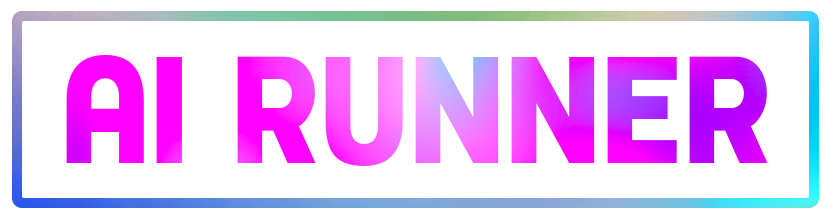
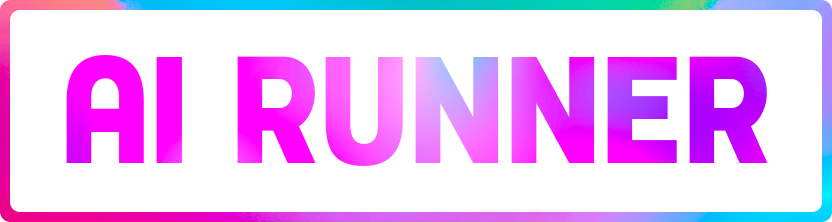
readme updates

Changed region(s): [[0.0, 0.0, 1.0, 1.0]]

diff --git a/README.md b/README.md
@@ -27,9 +27,7 @@
 | - Fast generation (~2s on RTX 2080s)<br>- Docker-based setup & GPU acceleration<br>- Theming (Light/Dark/System)<br>- NSFW toggles<br>- Extension API<br>- Python library & API support |
 
 </div>
-<div style="border: 2px solid white; border-radius: 8px; margin-bottom: 10px; padding: 16px; background-color: #f9f9f9; box-shadow: 0 2px 8px #0002; background: transparent;">
 
-</div>
 <div style="border: 2px solid white; border-radius: 8px; margin-bottom: 10px; padding: 16px; background-color: #f9f9f9; box-shadow: 0 2px 8px #0002; background: transparent;">
 
 ### 🌍 Language Support
@@ -52,6 +50,10 @@
 <img src="https://github.com/user-attachments/assets/392375c8-a7f6-4e6e-8662-511cffc608aa" alt="AI Runner Screenshot" style="max-width: 100%; border-radius: 8px; box-shadow: 0 2px 8px #0002;">
 
 <video src="https://github.com/user-attachments/assets/2d5b41ff-a0cd-4239-945b-d9e7a1bc5644" controls width="100%" style="border-radius: 8px; box-shadow: 0 2px 8px #0002;"></video>
+
+</td>
+</tr>
+</table>
 
 ## 💾 Installation Quick Start
 
@@ -86,12 +88,6 @@ There are several ways to install and use AI Runner. [See the Installation Wiki 
 For more options, including Docker, see the [Installation Wiki](https://github.com/Capsize-Games/airunner/wiki/Installation-instructions).
 
 **Note: *AI Runner does not distribute AI art models. You are responsible for obtaining and your own.***
-
----
-
-</td>
-</tr>
-</table>
 
 ---
 